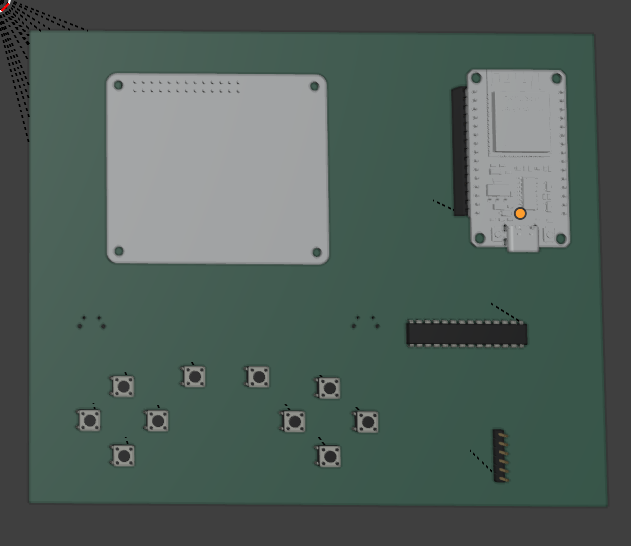
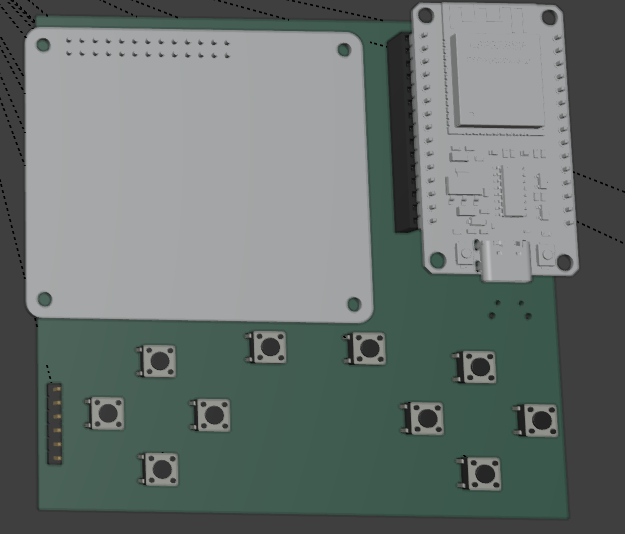
updated readme and bom

diff --git a/README.md b/README.md
@@ -4,7 +4,6 @@
 YouGame is a handheld device designed for making games using the tft adruino library!
 
 ![alt text](journal_imgs/front.png)
-![alt text](journal_imgs/back.png)
 ![alt text](journal_imgs/pcb.png)
 
 ## Features
@@ -20,11 +19,12 @@ ESP32 S3 as the brains
 | Item | Qty | Price (USD) | Link |
 |---|---|---|---|
 | 2.4" Touch Screen SPI TFT LCD | 1 | $10.24 | [Link](https://www.aliexpress.com/item/1005005770033042.html) |
-| 1x40 Breakable Pin Header 2.54mm Male (10pcs) | 1 | $2.05 | [Link](https://a.aliexpress.com/_EJZPzXy) |
+|2x40 Breakable Pin Header 2.54mm Male (10pcs) | 1 | $2.05 | [Link](https://a.aliexpress.com/_EJZPzXy) |
 | Momentary Tactile Push Button 6x6x5 Right Angle (20pcs) | 1 | $1.74 | [Link](https://www.aliexpress.com/item/1005006384754591.html) |
 | 12x12mm Panel Tactile Switch, H6.5mm (10pcs) — shoulder buttons | 1 | $1.60 | [Link](https://www.aliexpress.com/item/1005006164609617.html) |
 | TF Micro SD Card Module (SPI) | 1 | $0.90 | [Link](https://www.aliexpress.com/item/1005005302035188.html) |
 | Female Pin Header Socket Gold Plated 15-Pin (10pcs) | 1 | $3.70 | [Link](https://www.aliexpress.com/item/1005003610333849.html) |
 | ESP32 WiFi Bluetooth Dev Board Type-C CH340 | 1 | $5.59 | [Link](https://www.aliexpress.com/item/1005008771142129.html) |
+| PCB fabrication | 1 | $9.03 | jlcbcp.com  |
 
-**Total:** $25.82
+**Total:** $36.68
